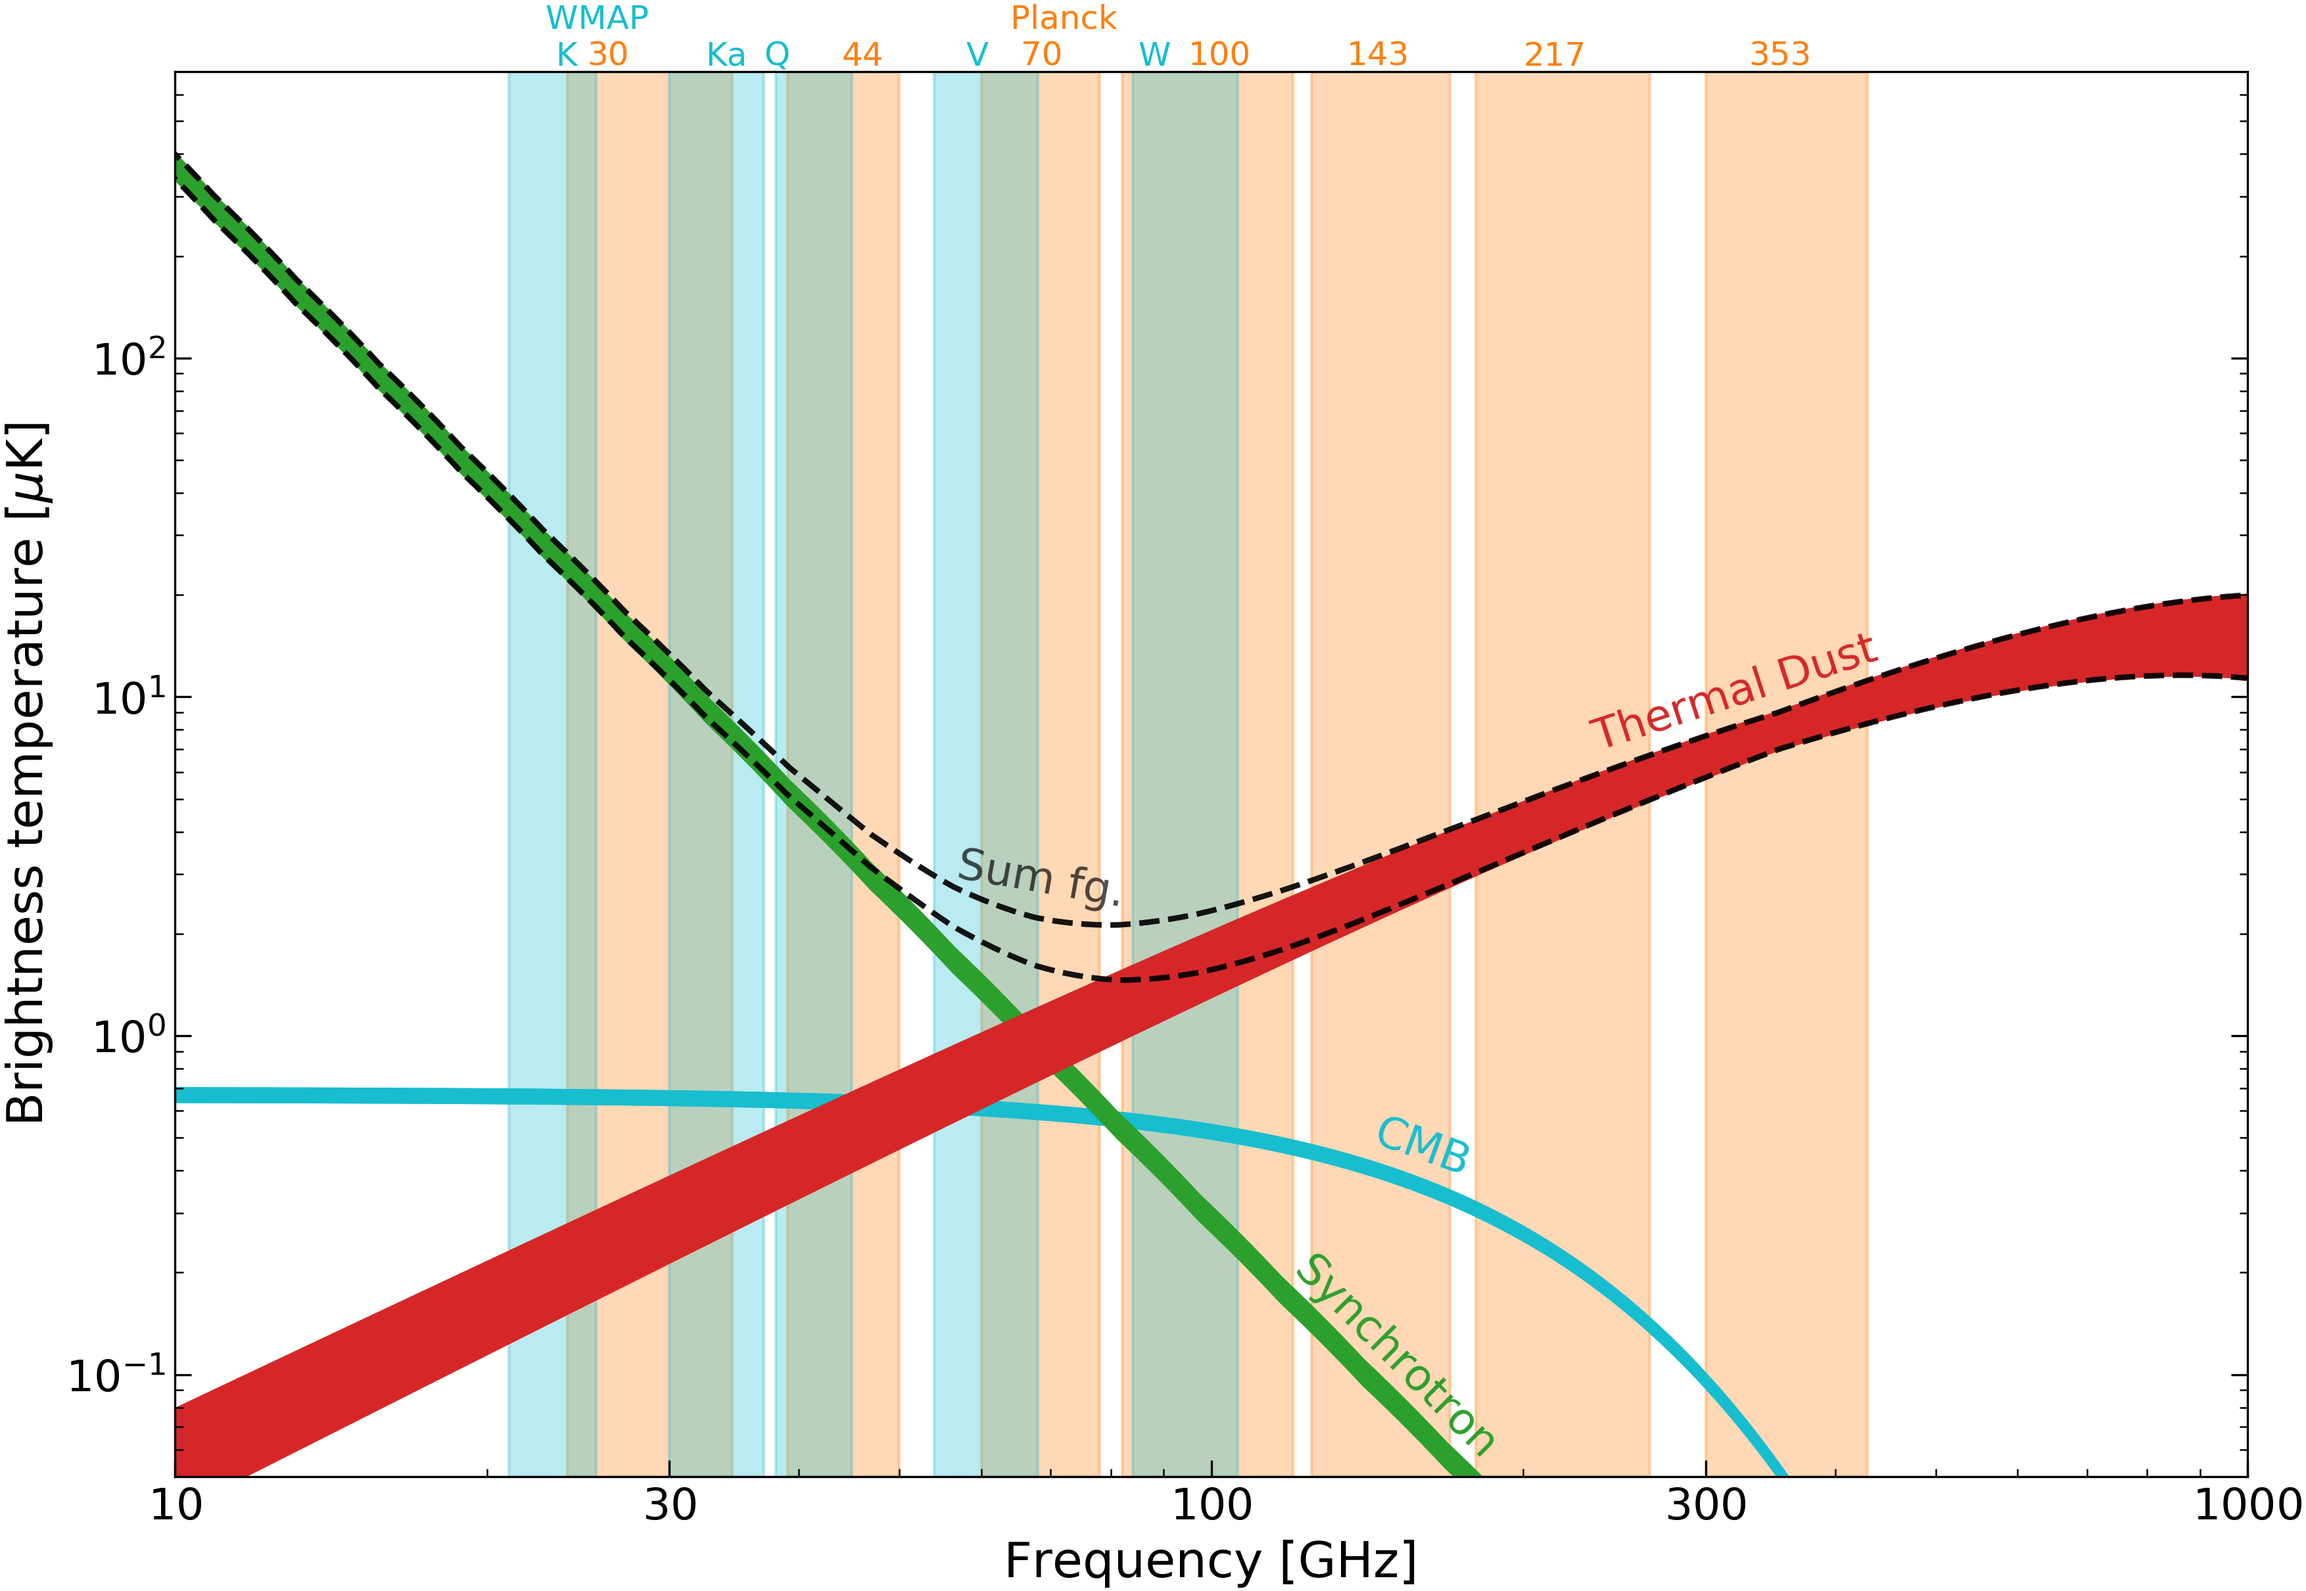
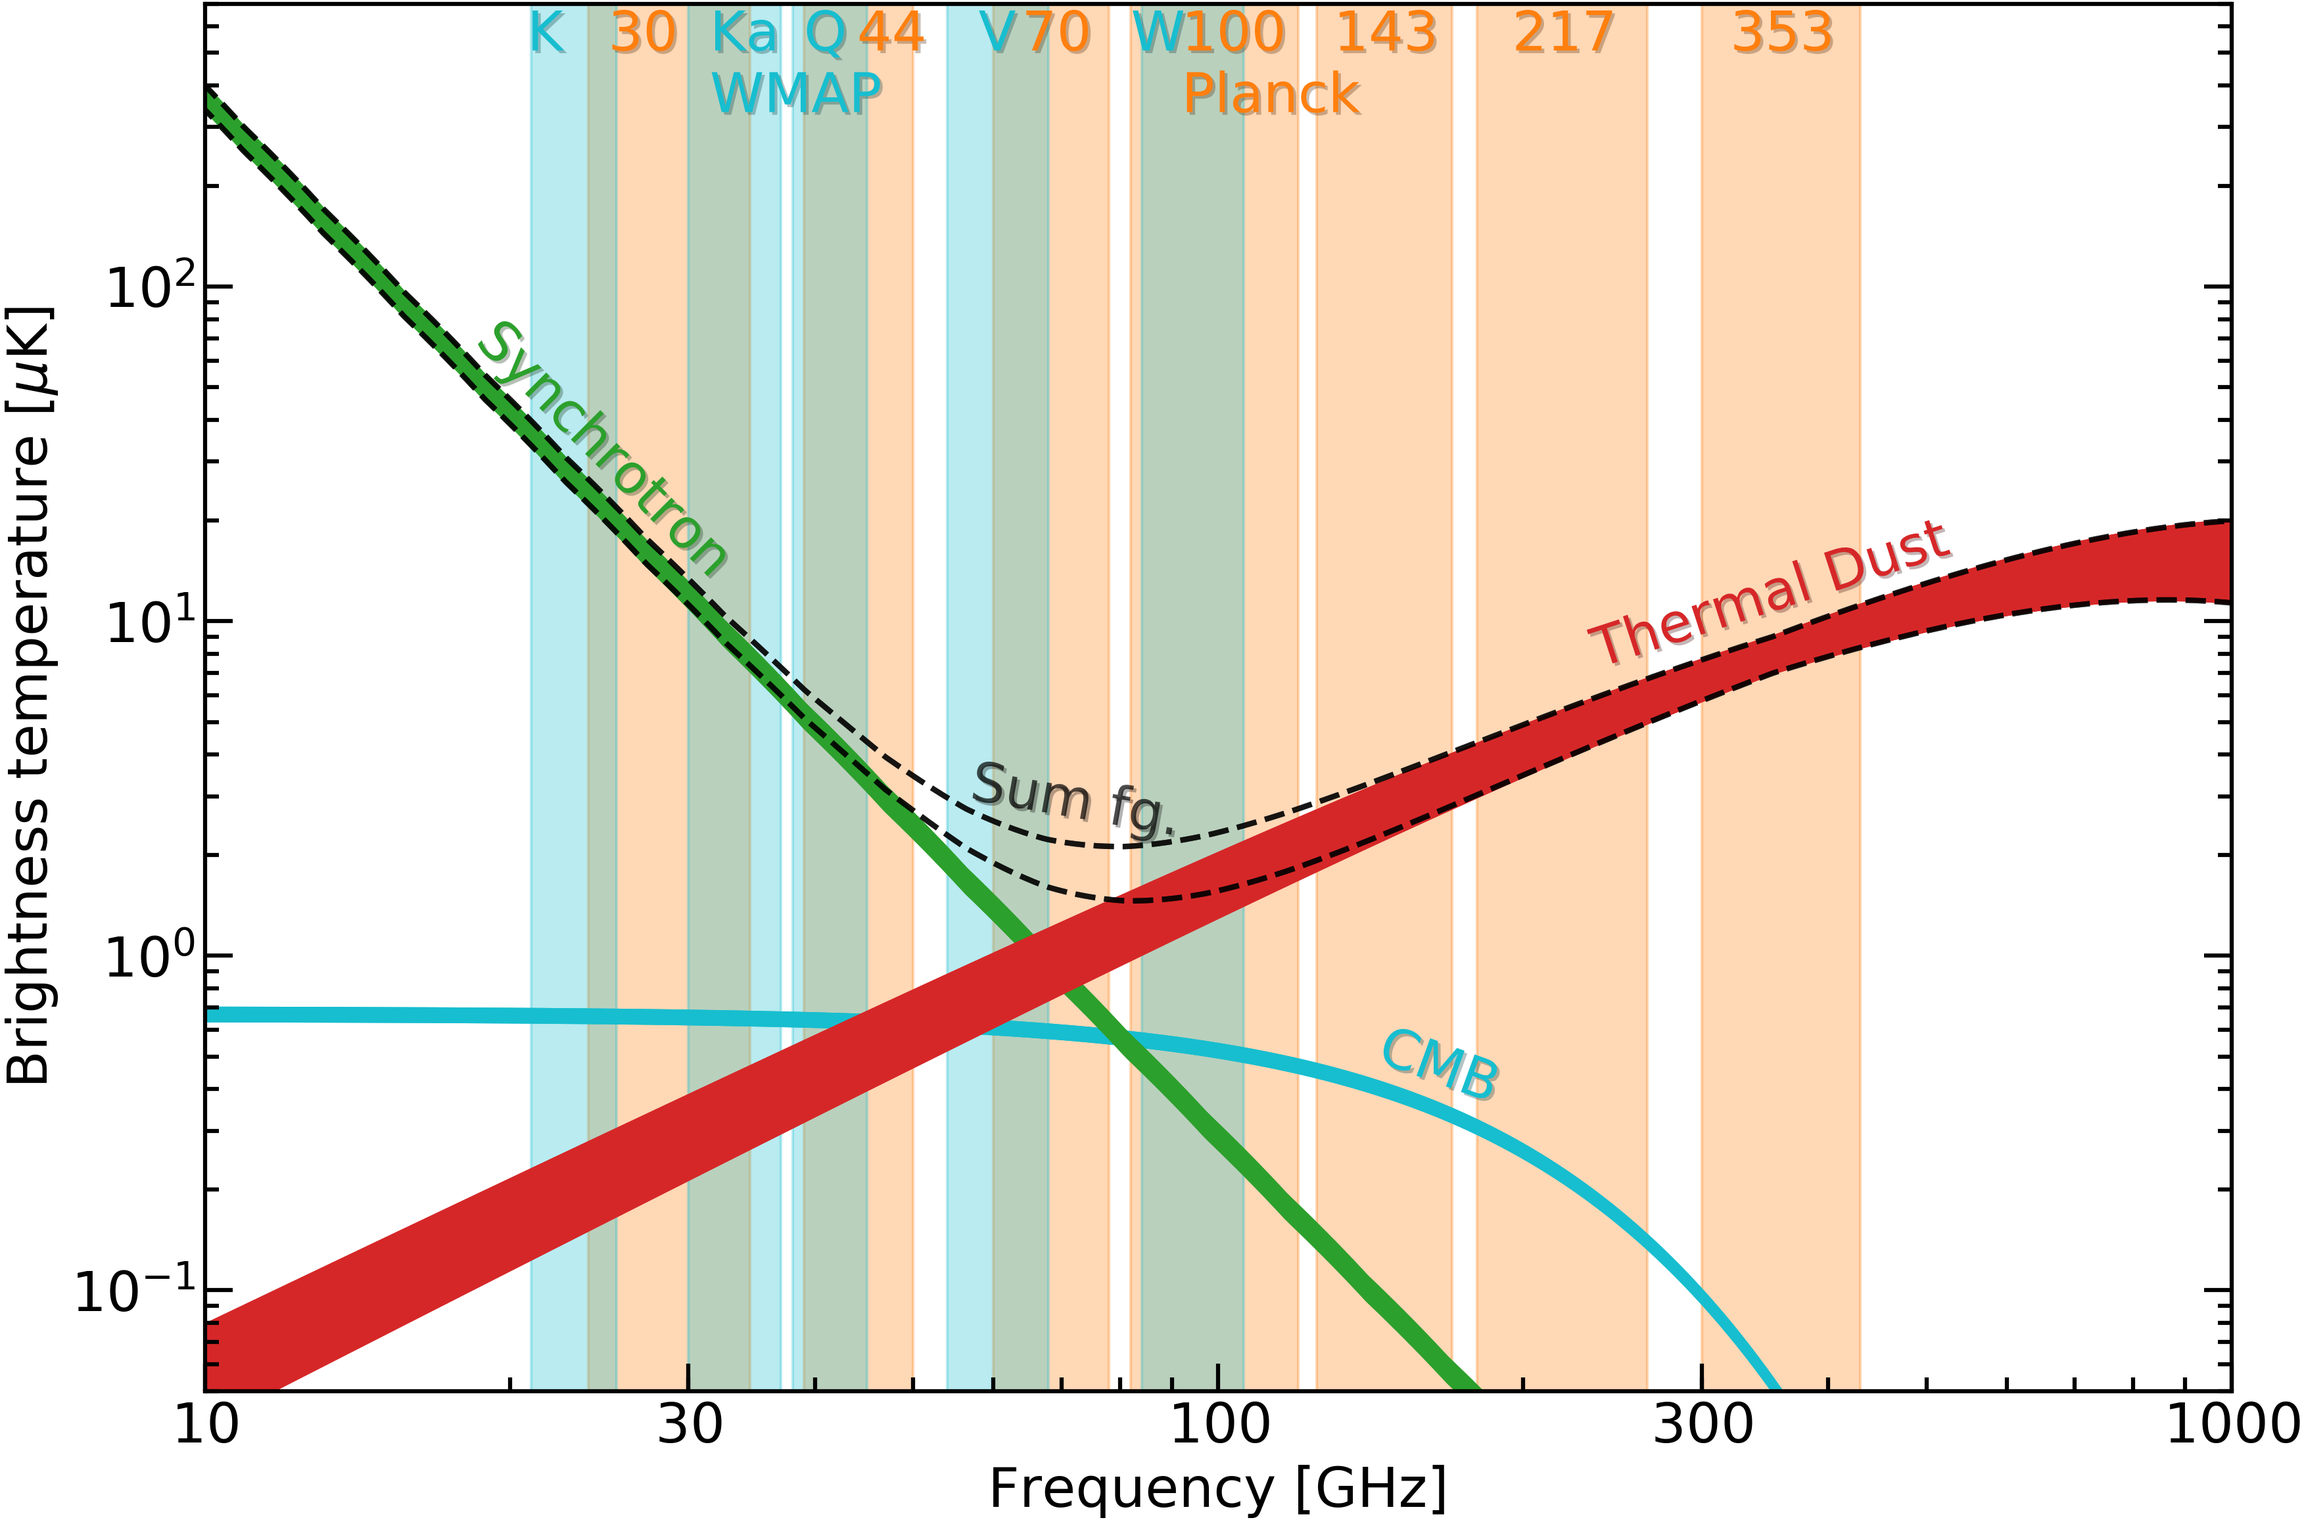
Visual stuff

Changed region(s): [[0.0, 0.0, 1.0, 1.0], [0.1866, 0.7772, 0.2177, 0.8083]]

diff --git a/spectrum.py b/spectrum.py
@@ -198,8 +198,8 @@ if long:
     ax.plot((1 - d, 1 + d), (1 - d, 1 + d), **kwargs)  # bottom-right diagonal
 
     freqtext = 16
-    fgtext = 16
-    labelsize = 16
+    fgtext = 18
+    labelsize = 20
     ticksize = 20
 
 else:
@@ -235,13 +235,13 @@ if pol:
     col=["C9","C2","C3","C7"]
     label=["CMB", "Synchrotron","Thermal Dust", "Sum fg."]
     if long:
-        rot=[-20, -50,22, -10] 
-        idx=[70, 53,  115, -15]
-        scale=[0.05, 0, 11, 2]
+        rot=[-25, -51,22, -10] 
+        idx=[70, -120,  115, -15]
+        scale=[0.05, 0, 13.5, 2]
     else:
         rot=[-20, -45, 18, -10]
-        idx=[70, 53,  115, -15]
-        scale=[0.05, 0, 7, 2]
+        idx=[70, -120,  115, -15]
+        scale=[0.05, 0, 10, 2]
 
 
 else:
